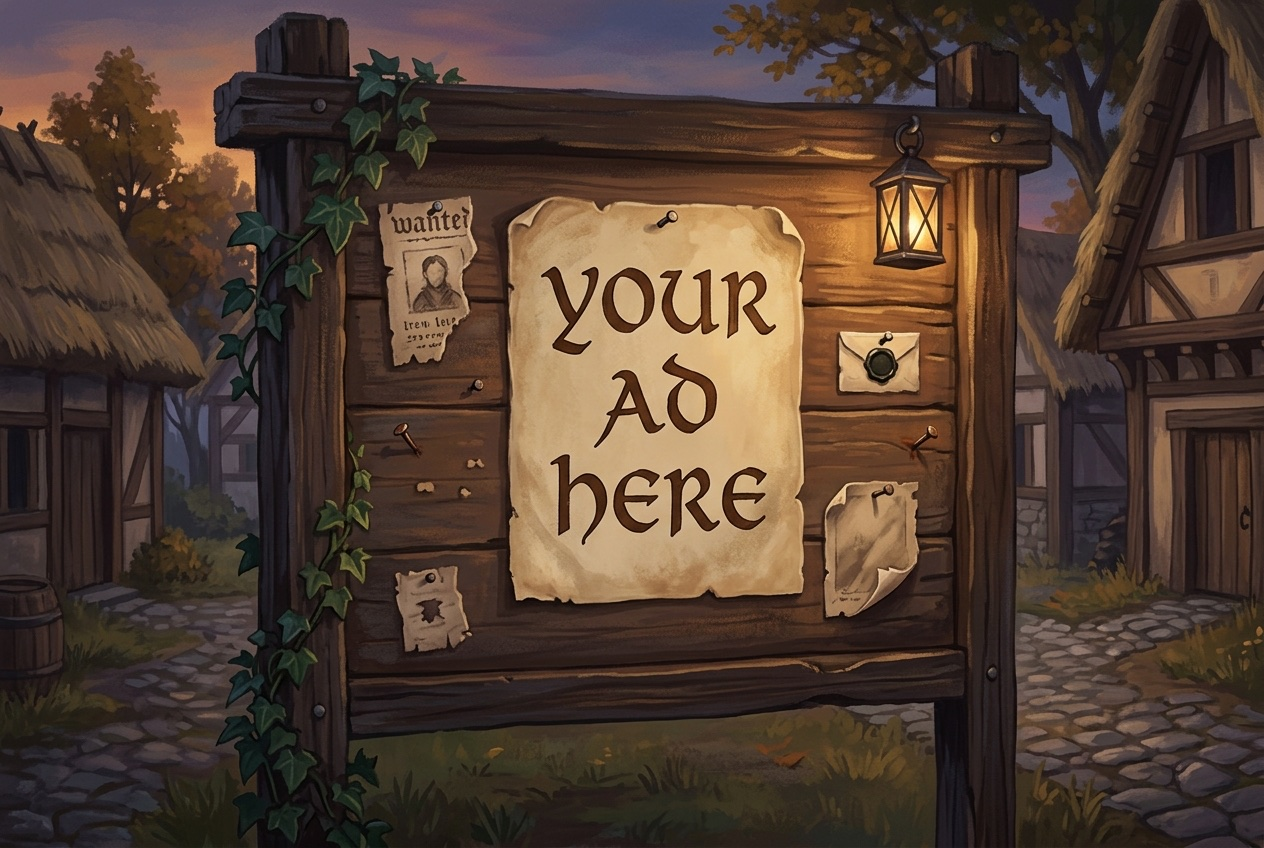
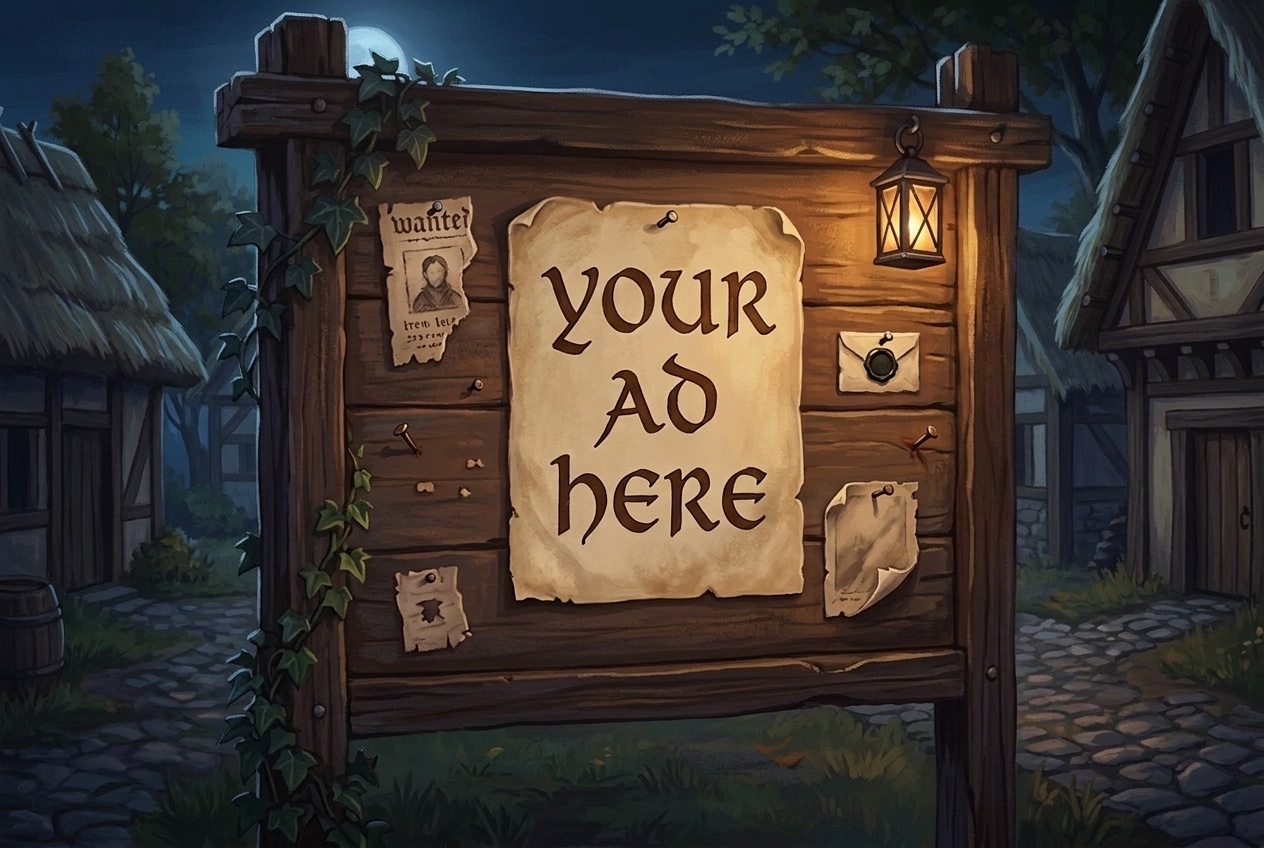
Sponsor break returns with night board, tiered posters, Build-a-Wizard tier
Hear-ye ad break at the top with the new nighttime notice board, poster
perks nested per tier (X post starts at Medium), sample poster images,
the $50k Build-a-Wizard Workshop with Grimoire animating an android,
tip jar redrawn with a TIPS label and pulled out of its table, and an
Every link on Compound Engineering.

Changed region(s): [[0.0, 0.0, 1.0, 1.0], [0.2777, 0.8278, 0.7405, 0.9811], [0.1851, 0.9811, 0.216, 1.0]]

diff --git a/images/prompts/notice-board-generation-2026-08-26.md b/images/prompts/notice-board-generation-2026-08-26.md
@@ -9,3 +9,33 @@ Sponsorship notice-board image for the Pay Tribute section of the README, paired
 ## Prompt
 
 A medieval town notice board, hand-painted fantasy illustration in a warm painterly style. A weathered dark-wood post-and-plank message board standing outdoors, the kind where townsfolk nail up wanted posters and guild notices. The board is MOSTLY EMPTY, with plenty of open cork-and-wood space. Pinned in the center is one large aged parchment poster with hand-lettered text reading 'YOUR AD HERE' in bold medieval lettering. Around the edges just a few small thematic scraps: one tiny torn wanted-style poster stub, a small notice with an illegible wax seal, a couple of rusty nails and empty pin holes, a torn corner of an old poster left under a nail. A sprig of ivy on one post, a small lantern hanging from the top beam, dusk light. Cozy fantasy village atmosphere, muted parchment and umber palette with warm lantern glow. The only readable text anywhere is 'YOUR AD HERE'. No people. 3:2 landscape.
+
+## Night zoom edit (2026-08-27)
+
+Edit pass on the image above, same model and pipeline, using the previous render as the reference image:
+
+Edit this image. Zoom in on the notice board so it fills most of the frame: crop away the empty sky and street edges on the left and right, keeping the full board, its two support posts, the hanging lantern, and the ivy sprig visible. Change the time of day to night: dark blue-black night sky, the scene lit mainly by the warm glow of the hanging lantern, deep shadows, moonlit rim light on the board edges. Keep the exact same painterly hand-painted fantasy style, the same posters and parchment scraps, and the same readable text 'YOUR AD HERE' on the central poster. No people. No other readable text. 3:2 landscape.
+
+## Sample posters (2026-08-27)
+
+Three sample sponsor posters at increasing sizes, same model and pipeline, each using the night notice board as the reference image. Outputs: `images/tribute/poster-small.jpg`, `poster-medium.jpg`, `poster-large.jpg`. (After a size recalibration, the bakery handbill is the small tier, the potion-shop poster is medium, and the blacksmith poster is large; a full-board airship poster was generated and retired as too large.)
+
+Small (Ovensong Bakery): Using this nighttime medieval notice board scene as the style and setting reference: a wide view of the dark wooden notice board at night, lit by warm lantern glow, the board mostly EMPTY dark wood. Pinned in one corner is one TINY parchment notice, very small, like a modest calling card or handbill, almost lost on the big empty board. The tiny poster is a simple hand-painted advertisement for a fictional bakery: a little painted loaf of bread and the small hand-lettered words 'OVENSONG BAKERY'. One iron nail, slightly crooked, humble and charming. A couple of empty nail holes elsewhere on the board. Same painterly hand-painted fantasy style. The only readable text is 'OVENSONG BAKERY'. No people. 3:2 landscape.
+
+Medium (Moonbrew Potions): Using this nighttime medieval notice board scene as the style and setting reference: a close-up of one section of the dark wooden notice board at night, lit by warm lantern glow. Pinned to the board is a SMALL modest parchment poster, roughly the size of a hand, surrounded by lots of empty dark wood. The poster is a charming hand-painted advertisement for a fictional potion shop: a little painted potion bottle and the hand-lettered words 'MOONBREW POTIONS'. The poster looks humble but lovingly made, slightly curled corner, one iron nail. Same painterly hand-painted fantasy style. The only readable text is 'MOONBREW POTIONS'. No people. 3:2 landscape.
+
+Large (Emberforge Smithy): Using this nighttime medieval notice board scene as the style and setting reference: a close-up of the dark wooden notice board at night, lit by warm lantern glow. Pinned to the board is a MEDIUM parchment poster taking up about a third of the visible board, a handsome hand-painted advertisement for a fictional blacksmith: a painted anvil and hammer with sparks, and the hand-lettered words 'EMBERFORGE SMITHY'. Decorative painted border on the poster, four iron nails, nicely made. A couple of small scraps pinned nearby for scale. Same painterly hand-painted fantasy style. The only readable text is 'EMBERFORGE SMITHY'. No people. 3:2 landscape.
+
+## Build-a-Wizard Workshop (2026-08-27)
+
+Grimoire animating a Frankenstein-style construct, for the Build-a-Wizard Workshop sponsorship tier. Reference image: the Grimoire icon (`skills/council/members/grimoire-code-wizard/assets/grimoire-code-wizard-icon-large.png`). Output: `images/tribute/build-a-wizard.jpg`.
+
+First pass (retired, patchwork golem): Using this wizard's appearance as the character reference: a hand-painted fantasy illustration of the wizard in his cluttered arcane workshop at night, building a Frankenstein-style construct. The wizard stands at a heavy wooden workbench, sleeves rolled, wand raised, arcs of blue-white lightning crackling from his hand down into a large patchwork golem lying on a stone slab: a stitched-together creature with mismatched limbs, bolts at the neck, one boot on, chest glowing with runes as it comes to life. Around them: bubbling potion flasks, tangled copper coils, floating spellbooks, scattered tools, candles. Dramatic lightning and warm candlelight, painterly storybook style matching the reference. The creature looks goofy and endearing, not scary. No readable text. 3:2 landscape.
+
+Final (futuristic android, gothic workshop): Using this wizard's appearance as the character reference: a hand-painted gothic fantasy illustration of the wizard in his dark arcane workshop at night, bringing a robot to life Frankenstein-style. The wizard stands over a heavy stone slab, sleeves rolled, wand raised, arcs of blue-white lightning crackling from his wand down into a sleek FUTURISTIC humanoid robot lying on the slab: smooth white-and-dark-graphite android body panels, minimal elegant design, glowing chest core and eyes flickering on as it awakens, faint glowing runes etched along its plating where magic meets machine. The workshop is spooky, gothic and macabre: stone arches, cobwebs, guttering candles, bubbling green potion flasks, copper coils, chained spellbooks, a raven perched on a shelf, moonlight through a tall arched window. Dramatic chiaroscuro lighting, storm outside. Painterly storybook style matching the reference. No readable text. 3:2 landscape.
+
+## Tip jar refresh (2026-08-27)
+
+Edit pass on `images/tribute/tip-jar.jpg`, same model and pipeline, using the previous tip jar icon as the reference image:
+
+Edit this image. Keep the exact same glass tip jar with coins inside, same painterly style, same dark background, and same framing. Remove the cork lid entirely, leaving the jar open at the top. Add a small white rectangular paper label attached to the front of the jar with the word 'TIPS' hand-written in black text. The label is clean white with slightly torn or taped edges, charming and handmade. No other readable text. Keep everything else identical.

diff --git a/README.md b/README.md
@@ -8,7 +8,7 @@
 
 ![The Inscription](images/01-inscription-flat-imagen.jpg)
 
-> "With ~~GPT-4’s~~ support, I feel unstoppable. The overnight surge in productivity is intoxicating. ~~It’s not about making money or starting a business, but~~ purely about continuously bringing ideas from my mind into reality, which feels like happiness. More importantly, it gives me <ins>the courage to dream and attempt things</ins> beyond my current abilities."
+> "With ~~GPT-4’s~~ support, I feel unstoppable. The overnight surge in productivity is intoxicating. ~~It’s not about making money or starting a business, but~~ purely about continuously bringing ideas from my mind into reality, which feels like happiness. More importantly, it gives me the courage to dream and attempt things beyond my current abilities."
 >
 > - Ke Fang, ["LLM for Individual"](https://mazzzystar.github.io/2023/05/10/LLM-for-individual/)
 
@@ -59,6 +59,17 @@ fork it. remix it. make it yours. PRs are welcome.
 Enjoy.
 
 ---
+
+Hear ye, hear ye, a quick token from our sponsors
+
+![The Town Notice Board](images/tribute/notice-board.jpg)
+
+For more info on sponsorships, see [The Town Notice Board](#the-town-notice-board-sponsorships)  
+For more info on our sponsors see the AI friendly [ASCII billboard](#the-ascii-billboard)
+
+---
+
+We now return to your regularly scheduled sorcery...
 
 ## Starting Guide
 
@@ -2395,11 +2406,9 @@ Prefer to keep it on GitHub? Become a sponsor and get the sponsor badge on your 
 
 Any amount, any time. Every coin counts.
 
+![Tip Jar](images/tribute/tip-jar.jpg)
 
-|                                                                                                                 |
-| --------------------------------------------------------------------------------------------------------------- |
-| ![Tip Jar](images/tribute/tip-jar.jpg) **[Tip Jar — any amount](https://donate.stripe.com/8wM7sIaUCa12400145)** |
-
+**[Tip Jar — any amount](https://donate.stripe.com/8wM7sIaUCa12400145)**
 
 ─── ✦ 🧙♂ ✦ ───
 
@@ -2419,17 +2428,48 @@ Sponsor the Tome and pin your poster here. Your notice goes up on the painted bo
 To claim a poster slot:
 
 - **[Small Poster — $500](https://buy.stripe.com/eVqdR9gIV9io701aZh2VG0d)**
+  - Your image poster pinned to the board at the top and bottom of this repo
+  - Your link(s) pinned to the text sign below
 - **[Medium Poster — $1,000](https://buy.stripe.com/dRm7sL78ldyEgAB6J12VG0e)**
+  - Everything above, plus a sponsored post on [my X account](https://x.com/NickADobos)
 - **[Large Poster — $5,000](https://buy.stripe.com/4gM7sL78l0LSfwx0kD2VG0f)**
-- **[Patron's Choice — name your price, $5,000+](https://buy.stripe.com/aFa4gz9gtgKQ5VX1oH2VG0g)**
+  - Everything above, at large size and prime placement on the board
+- **[Patron's Choice — $5,001+](https://buy.stripe.com/aFa4gz9gtgKQ5VX1oH2VG0g)**
+  - Everything above, plus your creative sponsorship ideas, on or beyond the board
 
-Tell us what you want your poster to look like at checkout, and you get:
+Tell us what you want your poster to look like at checkout.
 
-- Your image poster pinned to the board at the top and bottom of this repo
-- Your link(s) pinned to the text sign below
-- A sponsored post on [my X account](https://x.com/NickADobos)
+Sample posters:
 
-Creative sponsorship ideas, including those beyond the board, are encouraged. 
+
+| Small                                                   | Medium                                                    | Large                                                   |
+| ------------------------------------------------------- | --------------------------------------------------------- | ------------------------------------------------------- |
+| ![Small poster sample](images/tribute/poster-small.jpg) | ![Medium poster sample](images/tribute/poster-medium.jpg) | ![Large poster sample](images/tribute/poster-large.jpg) |
+
+
+---
+
+### The Build-a-Wizard Workshop
+
+![Build-a-Wizard Workshop](images/tribute/build-a-wizard.jpg)
+
+**[Build-a-Wizard Workshop — $50,000](https://buy.stripe.com/7sYeVd78l8ekacd9Vd2VG0h)**
+
+Hire a prompt engineer.  
+I will build you your very own AI or personal tech stack, for whatever purpose or goal you want.
+
+I will fly to your city and work with you in person   
+or hop on Google Meet video calls, Slack, or Tuple  
+For up to three days
+
+I can also teach you how to use AI in your life  
+I've mentored intern new grad intern coders long before Ai coding  
+I've ran sessions teaching FAANG engineers how to vibecode
+
+I can consult in your company  
+I can build and help you get setup with your very own Grimoire, JARVIS or system you want.
+
+---
 
 ─── 🏆 ✦ 🏆 ───
 
@@ -2447,6 +2487,8 @@ The most generous patrons of the Tome, inscribed for as long as the Tome endures
 
 
 ─── 📌 ✦ 📌 ───
+
+#### The ASCII Billboard
 
 Agent friendly notice board:
 
